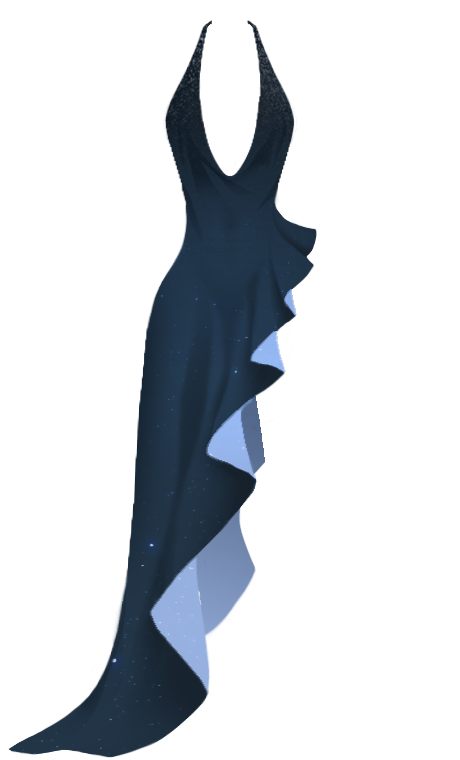
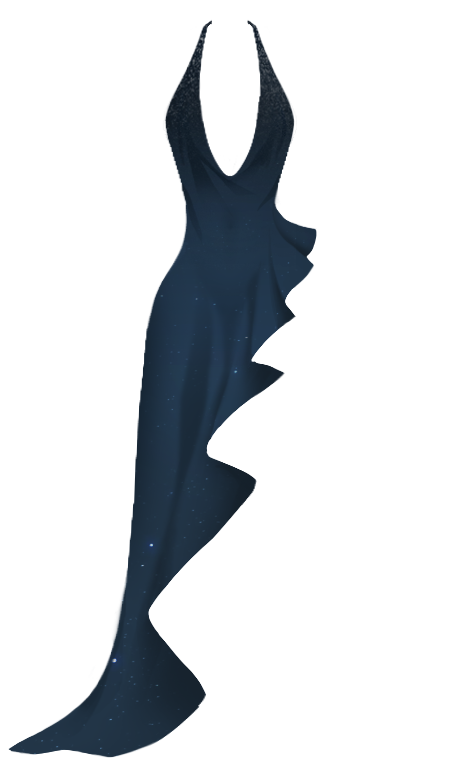
adjust: 夜空银海礼服裙拆分内侧图层

diff --git a/src/components/套装/落落/礼服裙.js b/src/components/套装/落落/礼服裙.js
@@ -19,7 +19,14 @@ const asset = [
                 Kneel: "LegsClosed",
                 KneelingSpread: PoseType.DEFAULT,
             },
-            Layer: [{ Name: "1" }, { Name: "2" }, { Name: "3" }, { Name: "4" }],
+            Layer: [
+                { Name: "1" },
+                { Name: "2" },
+                { Name: "3" },
+                { Name: "4" },
+                { Name: "I0", Priority: 29, ColorGroup: "内衬", ParentGroup: {} },
+                { Name: "I1", Priority: 6, ColorGroup: "内衬", ParentGroup: {} },
+            ],
         },
         (asset) => {
             ArmMaskTool.createArmMaskForCloth("Cloth", asset);
@@ -36,12 +43,18 @@ const asset = [
                 2: "腰带",
                 3: "身体珠宝",
                 4: "裙珠宝",
+                I0: "后",
+                I1: "前",
+                内衬: "内衬",
             },
             EN: {
                 1: "Dress",
                 2: "Belt",
                 3: "Body Jewelry",
                 4: "Dress Jewelry",
+                I0: "Back",
+                I1: "Front",
+                内衬: "Lining",
             },
         },
         extended: {
